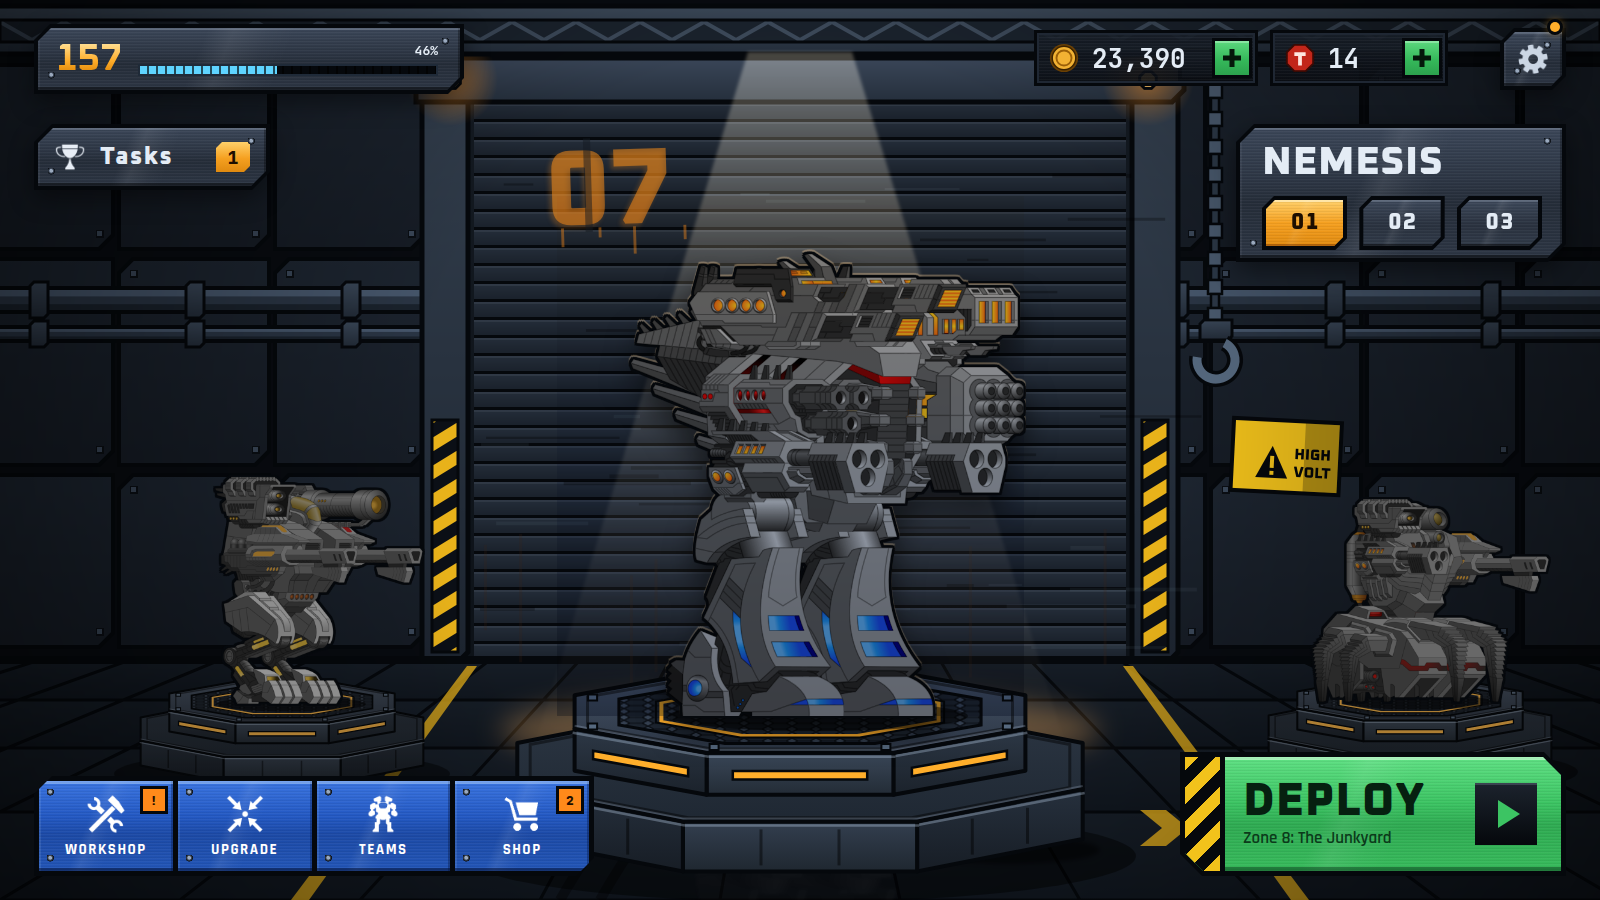
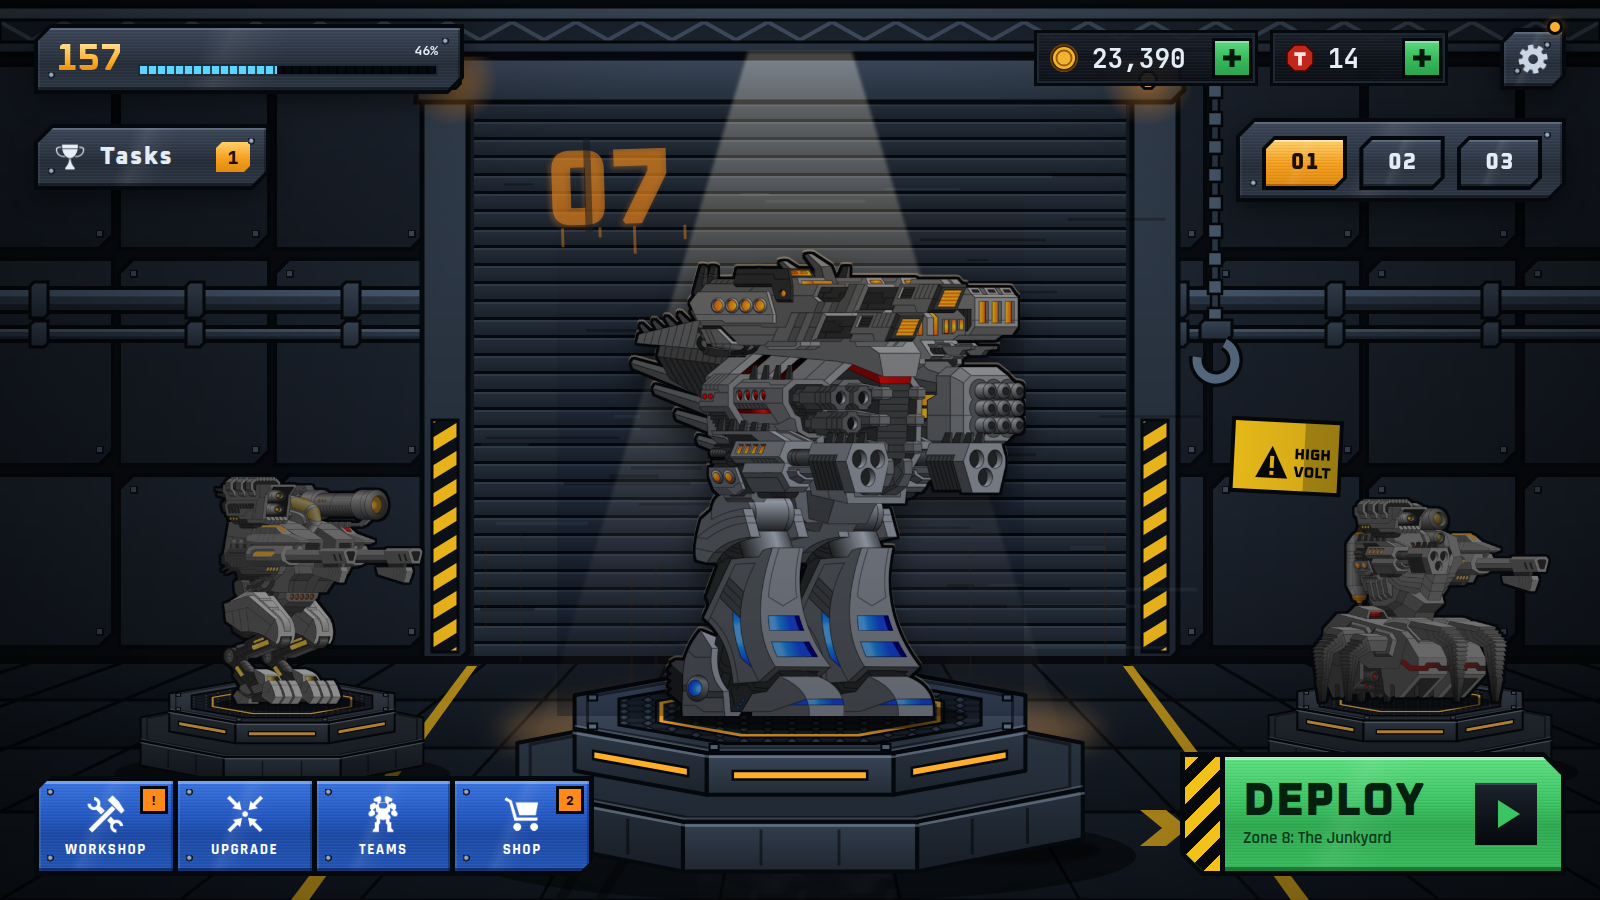
Remove the mech name from the hangar; keep only the 01/02/03 switch
Claude-Session: https://claude.ai/code/session_016EMeU7WbdybdkHaQ4QiAx5

Changed region(s): [[0.75, 0.1244, 1.0, 0.3111]]

diff --git a/ui/mocks/G-bay.html b/ui/mocks/G-bay.html
@@ -142,7 +142,8 @@ canvas{position:absolute;left:0;top:0;width:1600px;height:900px}
 .q.claim .v{color:var(--green)}
 .q.claim .seg i{background:var(--green)}
 
-.unit{left:1236px;top:124px;width:330px;height:138px}
+.unit{left:1236px;top:118px;width:330px;height:84px}
+.unit .team{margin-top:0}
 .unit .code{font-size:11px;color:var(--amber)}
 .unit h2{font-family:var(--f-head);font-size:40px;line-height:1;font-weight:800;letter-spacing:.02em;text-transform:uppercase}
 .unit .sub{font-size:14px;color:var(--mute);font-weight:600;margin:2px 0 10px;letter-spacing:.03em}
@@ -306,7 +307,6 @@ canvas{position:absolute;left:0;top:0;width:1600px;height:900px}
 
   <!-- unit selector -->
   <div class="plate unit"><div class="in">
-    <h2>Nemesis</h2>
     <div class="team"><div class="tb on"><div class="in">01</div></div><div class="tb"><div class="in">02</div></div><div class="tb"><div class="in">03</div></div></div>
   </div></div>
 
